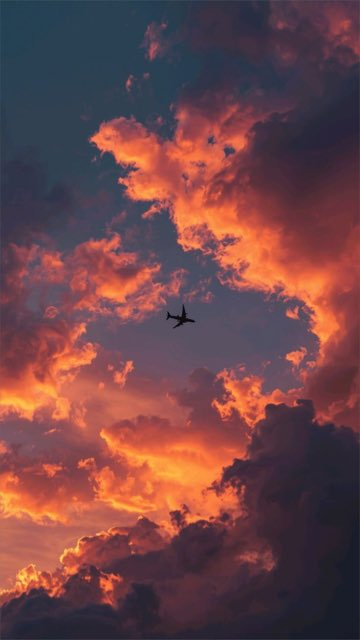
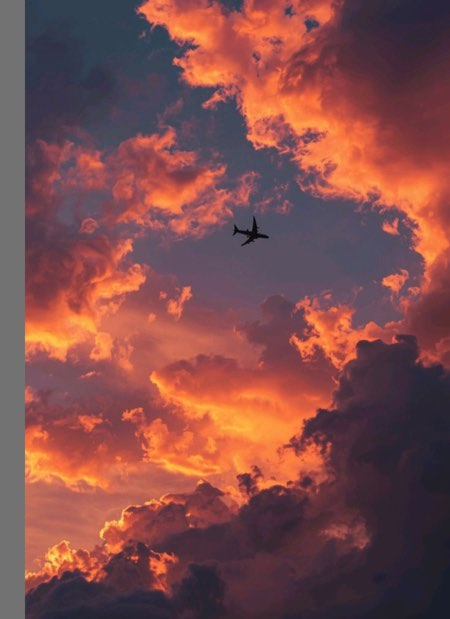
Raise airplane into visible sidebar area

diff --git a/_includes/sidebar.html b/_includes/sidebar.html
@@ -1,6 +1,6 @@
 <!-- The Side Bar -->
 
-<aside aria-label="Sidebar" id="sidebar" class="d-flex flex-column align-items-end" style="background-image: url('{{ "/assets/img/sidebar-airplane.jpg" | relative_url }}?v=airplane-20261026'); background-size: cover; background-position: center;">
+<aside aria-label="Sidebar" id="sidebar" class="d-flex flex-column align-items-end" style="background-image: url('{{ "/assets/img/sidebar-airplane.jpg" | relative_url }}?v=airplane-20261026-2'); background-size: cover; background-position: center;">
   <header class="profile-wrapper">
     <a href="{{ '/' | relative_url }}" id="avatar" class="rounded-circle" style="background-image: url('{{ "/assets/img/hd.jpg" | relative_url }}?v=dog-20261026'); background-size: cover; background-position: center;">
       {%- if site.avatar != empty and site.avatar -%}
